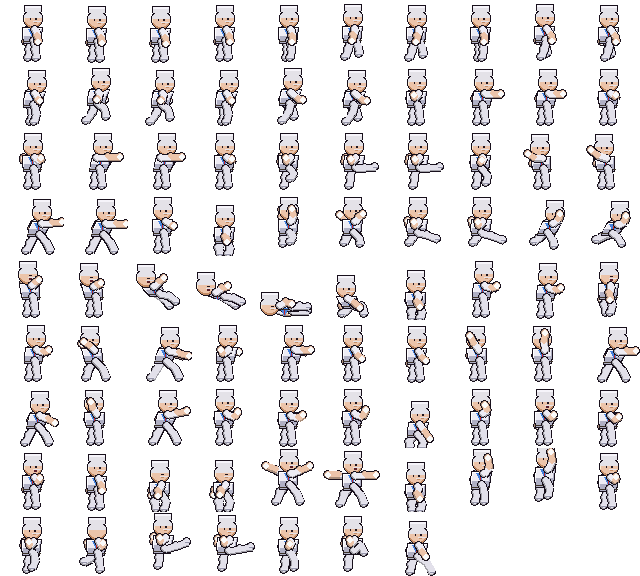
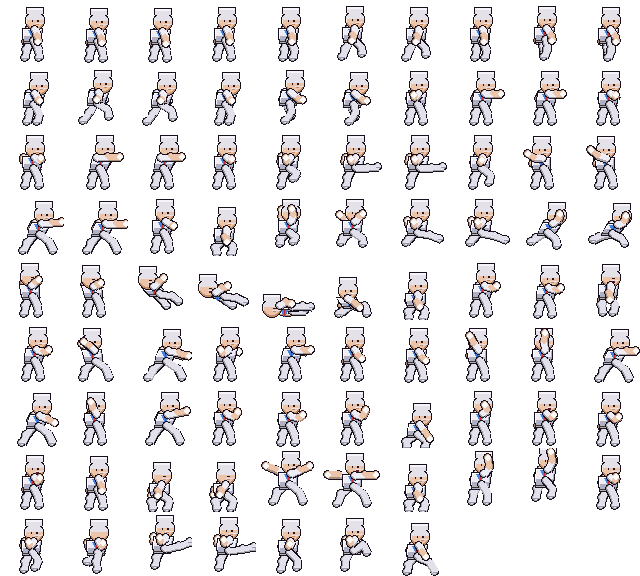
Give each archetype its own silhouette
Every character shared one body, so a heavy and a rusher had the same
outline and only the palette told them apart. In a brawl that means you
cannot tell what is about to hit you until it already has.

Torso width, limb thickness, head size, scale, stance width and hunch now
vary by role. A rusher is small and narrow, a grappler broad and planted,
a heavy widest with a small head against a big body, which is what sells
mass. With the colour stripped out the roles are still obvious, which is
the actual test.

The build comes from each enemy's archetype in the game data rather than a
second list kept beside the art. A hand-written copy would drift the
moment an archetype changed, and that drift would show up as a heavy that
looks like a rusher rather than as an error. Anything a character sets by
hand still wins, so the deliberate exceptions survive.

Stance and hunch move joints, so they are applied to a copy of the pose:
the pose dictionaries are shared by every character in the game.

The fighting is still untouched. Frame counts, timings and hitboxes are
unchanged; hitboxes are move data and have never been tied to the sprite.

260 checks.

diff --git a/tools/gen_characters.py b/tools/gen_characters.py
@@ -10,6 +10,11 @@ Usage:  python tools/gen_characters.py            (from the project root)
 Output: assets/art/characters/<id>.png + <id>_frames.tres, assets/art/ui/portraits/<id>.png
 """
 import os, math
+import re
+import sys
+
+sys.path.insert(0, os.path.dirname(os.path.abspath(__file__)))
+import gen_data as D
 from PIL import Image, ImageDraw
 
 ROOT = os.path.dirname(os.path.dirname(os.path.abspath(__file__)))
@@ -299,10 +304,13 @@ def spec(**kw):
         shirt=(200, 60, 60), shirt_shade=(150, 40, 45), shirt_style="jacket", under=(240, 240, 235),
         sleeves=True, pants=(60, 80, 150), pants_shade=(40, 55, 110), shoes=(240, 240, 240), shoe_shade=(180, 180, 190),
         gloves=None, glasses=False, hat=None, hat_color=(40, 40, 40), bandana=None, mask=None, beard=None,
-        torso_w=12, limb_w=4, head_r=7, scale=1.0, belt=(40, 30, 30), apron=None,
+        torso_w=12, limb_w=4, head_r=7, scale=1.0, stance=0, hunch=0, belt=(40, 30, 30), apron=None,
         anims=FULL_SET, mustache=False, eye=(30, 20, 30), stripe=None,
     )
     d.update(kw)
+    # Remember what this character asked for explicitly, so the build applied below can
+    # fill in the rest without overriding a deliberate choice.
+    d["_explicit"] = set(kw.keys())
     return d
 
 CHARACTERS = {
@@ -650,7 +658,32 @@ def draw_hand(d, hand, sp, outline_pass, w):
         return
     d.ellipse([x - r, y - r, x + r - 1, y + r - 1], fill=col)
 
+def shape_pose(pose, sp):
+    """Apply the build's stance and hunch.
+
+    Torso width and limb thickness come from the spec and are read directly by the
+    drawing code. Stance and hunch have to move joints, so they are applied here, to a
+    copy: the pose dictionaries are shared by every character in the game.
+    """
+    st = int(sp.get("stance", 0))
+    hu = int(sp.get("hunch", 0))
+    if st == 0 and hu == 0:
+        return pose
+    out = dict(pose)
+    if st:
+        # Plant the feet wider apart without moving the hips.
+        for key, sign in (("fl", 1), ("bl", -1)):
+            pts = pose[key]
+            out[key] = [pts[0], (pts[1][0] + st * sign, pts[1][1]), (pts[2][0] + st * sign, pts[2][1])]
+    if hu:
+        # Head forward and down, shoulders up: weight carried in front.
+        out["head"] = (pose["head"][0] + hu, pose["head"][1] + hu)
+        out["neck"] = (pose["neck"][0], pose["neck"][1] + max(0, hu - 1))
+    return out
+
+
 def render_pose(pose, sp, size=FRAME):
+    pose = shape_pose(pose, sp)
     img = Image.new("RGBA", (size, size), (0, 0, 0, 0))
     d = ImageDraw.Draw(img)
     lw = sp["limb_w"]
@@ -705,6 +738,57 @@ def render_portrait(sp):
 # ---------------------------------------------------------------------------
 # Sheet packing + Godot SpriteFrames
 # ---------------------------------------------------------------------------
+# ---------------------------------------------------------------------------
+# Builds
+#
+# A player should be able to tell what is about to hit them from the outline alone,
+# before any colour or animation registers. Everyone used to share one body, so a heavy
+# and a rusher had the same silhouette and only the palette told them apart.
+#
+# The build comes from the enemy's archetype in gen_data rather than a second list kept
+# here, which would drift the moment an archetype changed. Anything a character sets by
+# hand still wins.
+# ---------------------------------------------------------------------------
+BUILDS = {
+    # narrow, light, small head: reads as fast
+    D.AR_RUSHER:   dict(torso_w=10, limb_w=3, head_r=6, scale=0.94, stance=0, hunch=0),
+    D.AR_GRUNT:    dict(torso_w=12, limb_w=4, head_r=7, scale=1.00, stance=0, hunch=0),
+    # a wide stance and a slight hunch: someone carrying something heavy
+    D.AR_WEAPON:   dict(torso_w=13, limb_w=4, head_r=7, scale=1.00, stance=1, hunch=1),
+    D.AR_RANGED:   dict(torso_w=11, limb_w=3, head_r=7, scale=0.97, stance=0, hunch=0),
+    # broad and planted
+    D.AR_GRAPPLER: dict(torso_w=15, limb_w=5, head_r=7, scale=1.05, stance=2, hunch=1),
+    # widest, heaviest, and the head is small against the body, which is what sells mass
+    D.AR_HEAVY:    dict(torso_w=17, limb_w=6, head_r=7, scale=1.10, stance=3, hunch=2),
+    D.AR_BOSS:     dict(torso_w=18, limb_w=6, head_r=8, scale=1.14, stance=3, hunch=2),
+}
+
+
+def _character_archetypes():
+    """character id -> archetype, read straight off the enemy definitions."""
+    out = {}
+    for e in D.ENEMIES:
+        m = re.search(r"characters/([a-z0-9_]+)_frames\.tres", e["sprite_frames"].path)
+        if m:
+            out[m.group(1)] = e["archetype"]
+    return out
+
+
+def apply_builds():
+    arch = _character_archetypes()
+    missing = [c for c in arch if c not in CHARACTERS]
+    if missing:
+        raise SystemExit("enemies reference characters that do not exist: %s" % ", ".join(sorted(missing)))
+    applied = 0
+    for cid, a in arch.items():
+        sp = CHARACTERS[cid]
+        for k, v in BUILDS[a].items():
+            if k not in sp["_explicit"]:
+                sp[k] = v
+        applied += 1
+    return applied
+
+
 def build_character(cid, sp):
     anim_names = sp["anims"]
     frames = []  # (anim, index, image)
@@ -759,6 +843,8 @@ def write_spriteframes(cid, regions, anim_names):
         f.write("\n".join(lines))
 
 def main():
+    n = apply_builds()
+    print("builds applied to %d enemy characters" % n)
     total = 0
     for cid, sp in CHARACTERS.items():
         n = build_character(cid, sp)

diff --git a/docs/CHANGELOG.md b/docs/CHANGELOG.md
@@ -367,6 +367,17 @@ timings and hitboxes are all untouched. These were rendering faults, not art dec
 - Added a consistent key light from the upper left on heads and torsos, so shapes read as
   solid rather than flat.
 
+### Added
+
+- **Builds per archetype.** Every character used to share one body, so a heavy and a
+  rusher had the same silhouette and only the palette told them apart. Torso width, limb
+  thickness, head size, overall scale, stance width and hunch now vary by role, and you
+  can tell what is coming at you from the outline alone.
+- The build comes from the enemy's archetype in the game data, not a second list kept
+  beside the art. A hand-written copy would drift the moment an archetype changed, and
+  the drift would show up as a heavy that looks like a rusher rather than as an error.
+  Anything a character sets by hand still wins.
+
 ### Fixed (test)
 
 - The menu navigation test nudged a volume slider and never put it back. Those sliders

diff --git a/docs/ART_DIRECTION.md b/docs/ART_DIRECTION.md
@@ -99,6 +99,11 @@ any individual design choice:
   this size, and an eye flush against the hairline merges into it.
 - **The key light is up and to the left**, on every part, without exception.
 
+**Silhouette carries the role.** Torso width, limb thickness, head size, scale, stance and
+hunch come from the enemy's archetype: a rusher is small and narrow, a grappler broad and
+planted, a heavy widest with a small head against a big body, which is what sells mass.
+Read the outline with the colour removed and the roles should still be obvious.
+
 The Commuters share one navy palette on purpose. Chapter one's gangs are five different
 looks; the sixth is one look repeated, which is the joke and also how you read them at a
 glance in a crowd.

diff --git a/README.md b/README.md
@@ -197,7 +197,7 @@ Details, including deployment to GitHub Pages and Cloudflare Pages, are in
 godot --headless --path . -- --smoke
 ```
 
-Runs 259 automated checks against a real session: content integrity, movement, every
+Runs 260 automated checks against a real session: content integrity, movement, every
 attack, the combo chain, grabs and throws, enemy AI, weapons and durability, pickups,
 levelling, every shop, quests, dialogue, travel between all eight areas, the door graph, camera framing,
 the boss fight through both phases, area lighting and bloom, and save/load with

diff --git a/docs/TESTING.md b/docs/TESTING.md
@@ -11,7 +11,7 @@ other captures how it looks.
 godot --headless --path . -- --smoke
 ```
 
-Boots the game, starts a session and drives it through 259 checks. Exit code is 0 if
+Boots the game, starts a session and drives it through 260 checks. Exit code is 0 if
 everything passes, 1 otherwise, so it works in CI. Results print to stdout and are also
 flushed line by line to `user://smoke_test.log`, which means a hang or crash still leaves a
 record of exactly how far it got.
